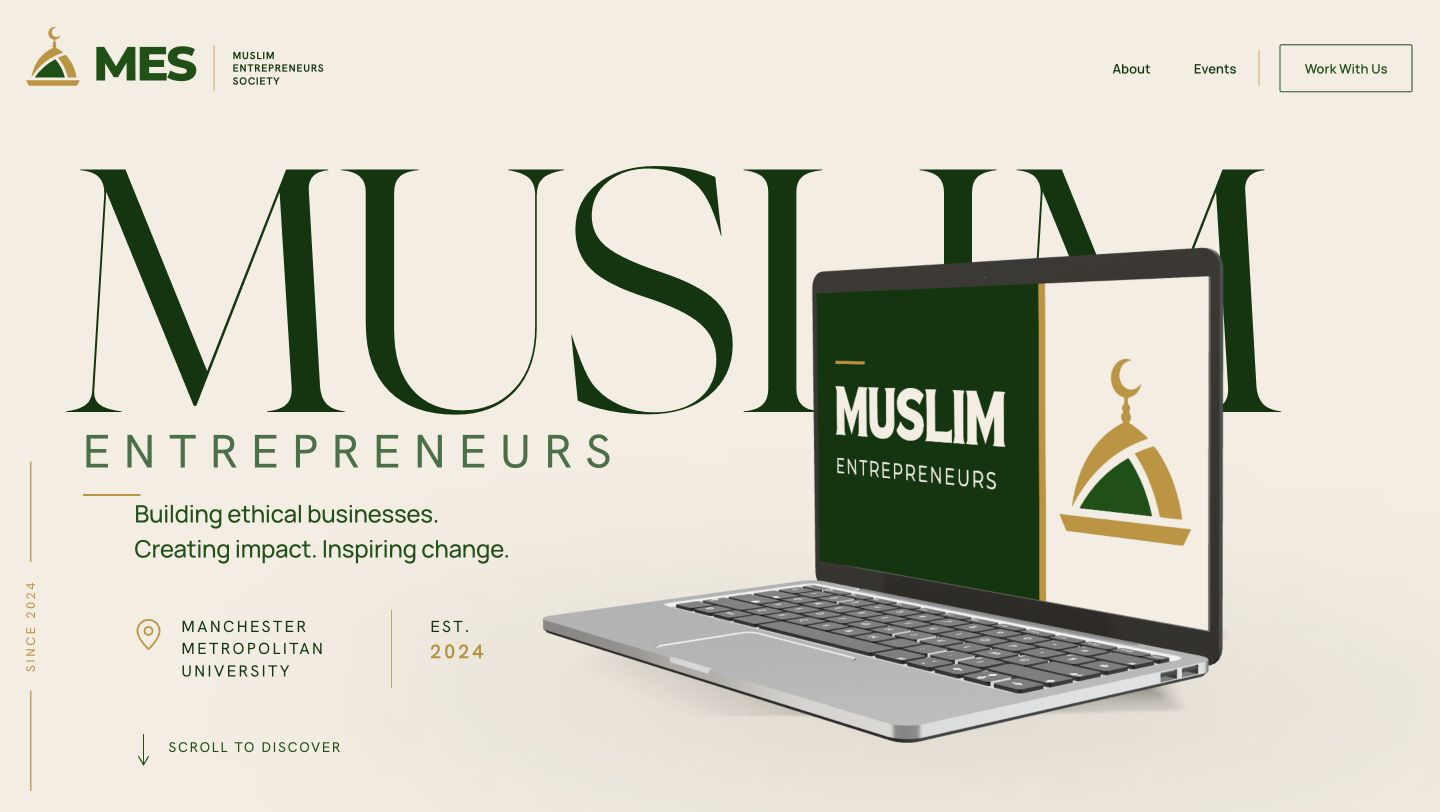
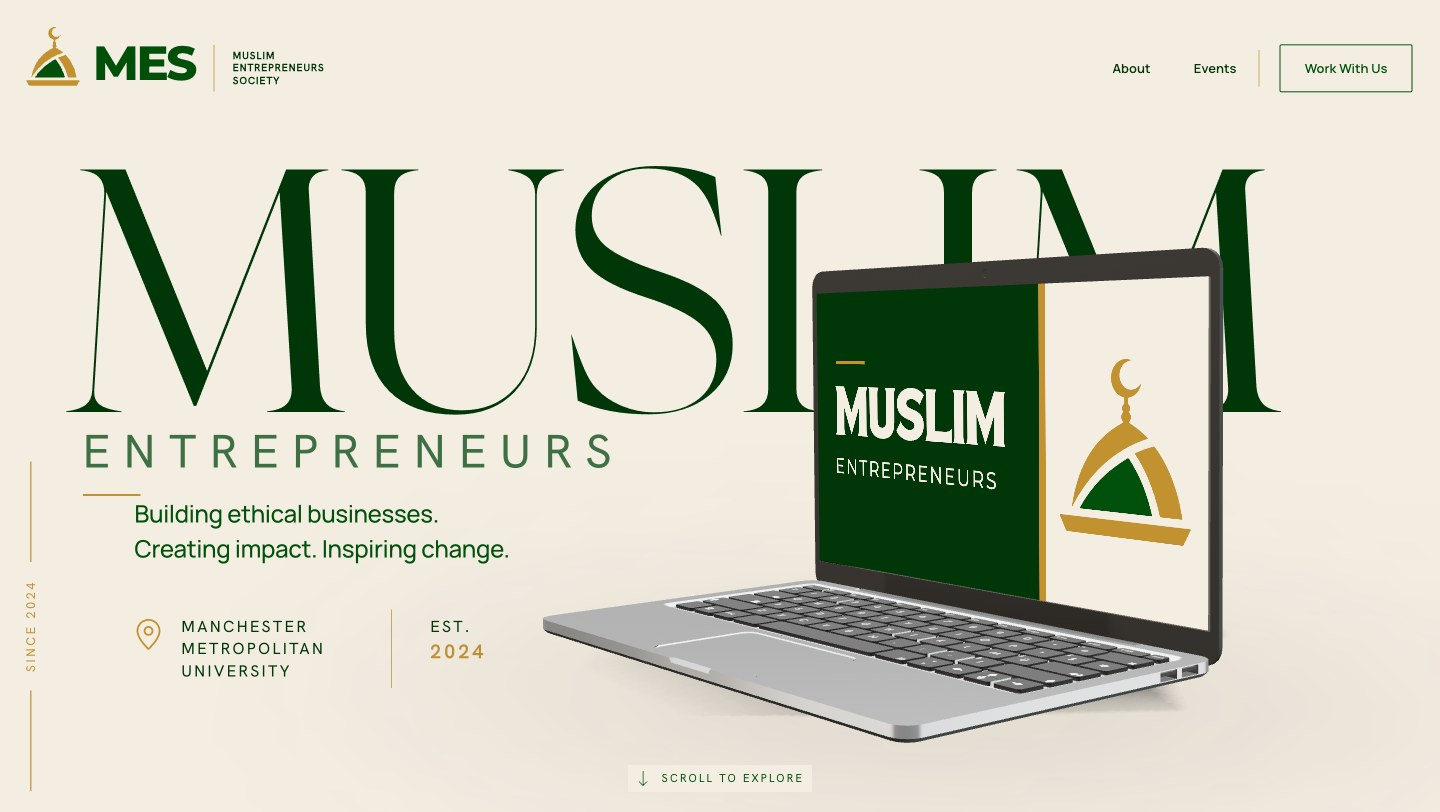
docs: refresh final README and production previews

diff --git a/README.md b/README.md
@@ -6,7 +6,7 @@ A live website for the **Muslim Entrepreneurs Society (MES)** at Manchester Metr
 
 ## Preview
 
-Actual production homepage, captured on 10 October 2026 with the interactive WebGL scene active.
+Actual production homepage, captured on 11 October 2026 with the interactive WebGL scene active.
 
 ![Desktop MES homepage with editorial typography and the real-time 3D laptop](docs/images/homepage-desktop.jpg)
 
@@ -30,9 +30,11 @@ The website gives students and potential collaborators a central place to unders
 - **Interactive 3D hero:** a GLB laptop rendered in real time, with reversible scroll-driven camera movement and model rotation.
 - **Dynamic screen content:** canvas-rendered branding, three event photographs and a purpose statement, with animated reveals and responsive crops.
 - **WebGL-to-HTML transition:** the laptop display fills the viewport before matching HTML content takes over.
-- **Responsive presentation:** separate desktop and portrait scene compositions, adaptive typography, editorial layouts and mobile navigation.
+- **Responsive presentation:** separate desktop and portrait scene compositions, adaptive typography and editorial layouts, with mobile navigation accessible throughout the hero sequence.
+- **Homepage guidance:** a scroll indicator guides exploration, while contextual links lead to About, Events and Work With Us.
+- **Featured Experiences:** responsive, scroll-driven event poster transitions, with shorter mobile scroll distances refined after physical-device feedback.
 - **Motion and rendering alternatives:** reduced-motion behaviour keeps the opening scene static; a branded fallback preserves the page when WebGL is unavailable or fails.
-- **Society content:** history, team profiles, impact statistics, featured event posters and a network of businesses, organisations and speakers.
+- **Society content:** history, team profiles, impact statistics and a network of businesses, organisations and speakers.
 - **Partnership and recruitment:** collaboration information, email contact, community links and a committee application dialog with an embedded Tally form and a direct-link alternative.
 
 The `/events` route currently presents the 2026/27 programme announcement. Featured past experiences appear on the homepage; there is no event booking system or populated upcoming-events catalogue.
@@ -107,7 +109,9 @@ The **October 2026 initial-load Lighthouse results** were:
 | Mobile | 92 | 96 | 100 | 100 |
 | Desktop | 98 | 100 | 100 | 100 |
 
-**Testing condition:** these runs displayed the static WebGL fallback, not the active 3D scene. They assess initial loading under that condition and do not demonstrate the performance of the complete interactive experience. The 3D animation has separately been investigated on desktop and under emulated mobile conditions; verified real-phone performance is not established here.
+**Testing condition:** these runs displayed the static WebGL fallback, not the active 3D scene. They assess initial loading under that condition and do not demonstrate the performance of the complete interactive experience. The 3D animation has separately been investigated on desktop and under emulated mobile conditions.
+
+The owner also manually reviewed the homepage on an **iPhone 13 in iOS Safari**, covering the 3D laptop, scroll responsiveness, Featured Experiences poster transitions, mobile navigation and general visual presentation. Mobile scroll distances were adjusted after this physical-device feedback. The owner reported improved responsiveness through the 3D hero, significantly improved pacing through Featured Experiences and smooth behaviour through the remaining sections examined. These are qualitative observations, not measured frame rates, GPU performance or battery-life results, and do not establish comprehensive device compatibility or perfect Safari performance.
 
 The site targets **WCAG 2.2 AA**, without claiming certification. Implemented provisions include a skip link, semantic landmarks and headings, visible focus styles, image alternatives, keyboard navigation and native dialogs with focus management. Decorative WebGL content is hidden from assistive technology, with society information and photograph descriptions available in HTML. `prefers-reduced-motion` removes the long hero scroll sequence and adjusts section and navigation motion. WebGL failure shortens the hero and keeps the purpose statement and page content accessible.
 

diff --git a/docs/images/README.md b/docs/images/README.md
@@ -1,18 +1,26 @@
 # Production previews
 
-Captured from [mmumes.com](https://mmumes.com) on 10 October 2026 in desktop Chrome:
+Captured from [mmumes.com](https://mmumes.com) on 11 October 2026 in desktop Chrome 154.0.0.0:
 
 | File | Viewport in CSS pixels | Content |
 | --- | --- | --- |
 | `homepage-desktop.jpg` | 1440 × 812 | Opening homepage, active 3D laptop |
 | `homepage-mobile.jpg` | 390 × 844 | Opening homepage, active 3D laptop, emulated mobile viewport |
 
-Both images are viewport-only JPEG captures without browser chrome, developer
-panels or generated artwork. The visible layout was reviewed after loading;
-`document.fonts.status` was `loaded` and the hero's WebGL state was `ready`.
-The mobile font check also confirmed the actual Apparel, TAN, laptop Montserrat
-and Hanken faces were loaded, and visible image assets had completed loading.
-The laptop crop on mobile reflects the production portrait composition.
+Both images are viewport-only JPEG captures at device pixel ratio 1, without
+browser chrome, developer panels, loading placeholders or accidental focus
+indicators. The visible layout was reviewed after loading;
+`document.fonts.status` was `loaded`, the hero's WebGL state was `ready` and the
+active WebGL context was not lost. Apparel, TAN, laptop Montserrat and Hanken
+faces were loaded, and visible image assets had completed loading.
+The laptop crop on mobile reflects the production portrait composition. Mobile
+viewport and touch input were emulated in desktop Chrome; neither capture was
+taken on a physical iPhone.
+
+Production was checked against the final changes in PRs #55–#57 before capture:
+the centred scroll cue and contextual homepage links were present, obsolete
+Featured Experiences numbering was absent, and the mobile hero and Featured
+Experiences tracks used the updated `250svh` and `220svh` heights respectively.
 
 These previews demonstrate rendered appearance, not real-phone performance or
 Lighthouse results. Third-party asset rights still apply; see
